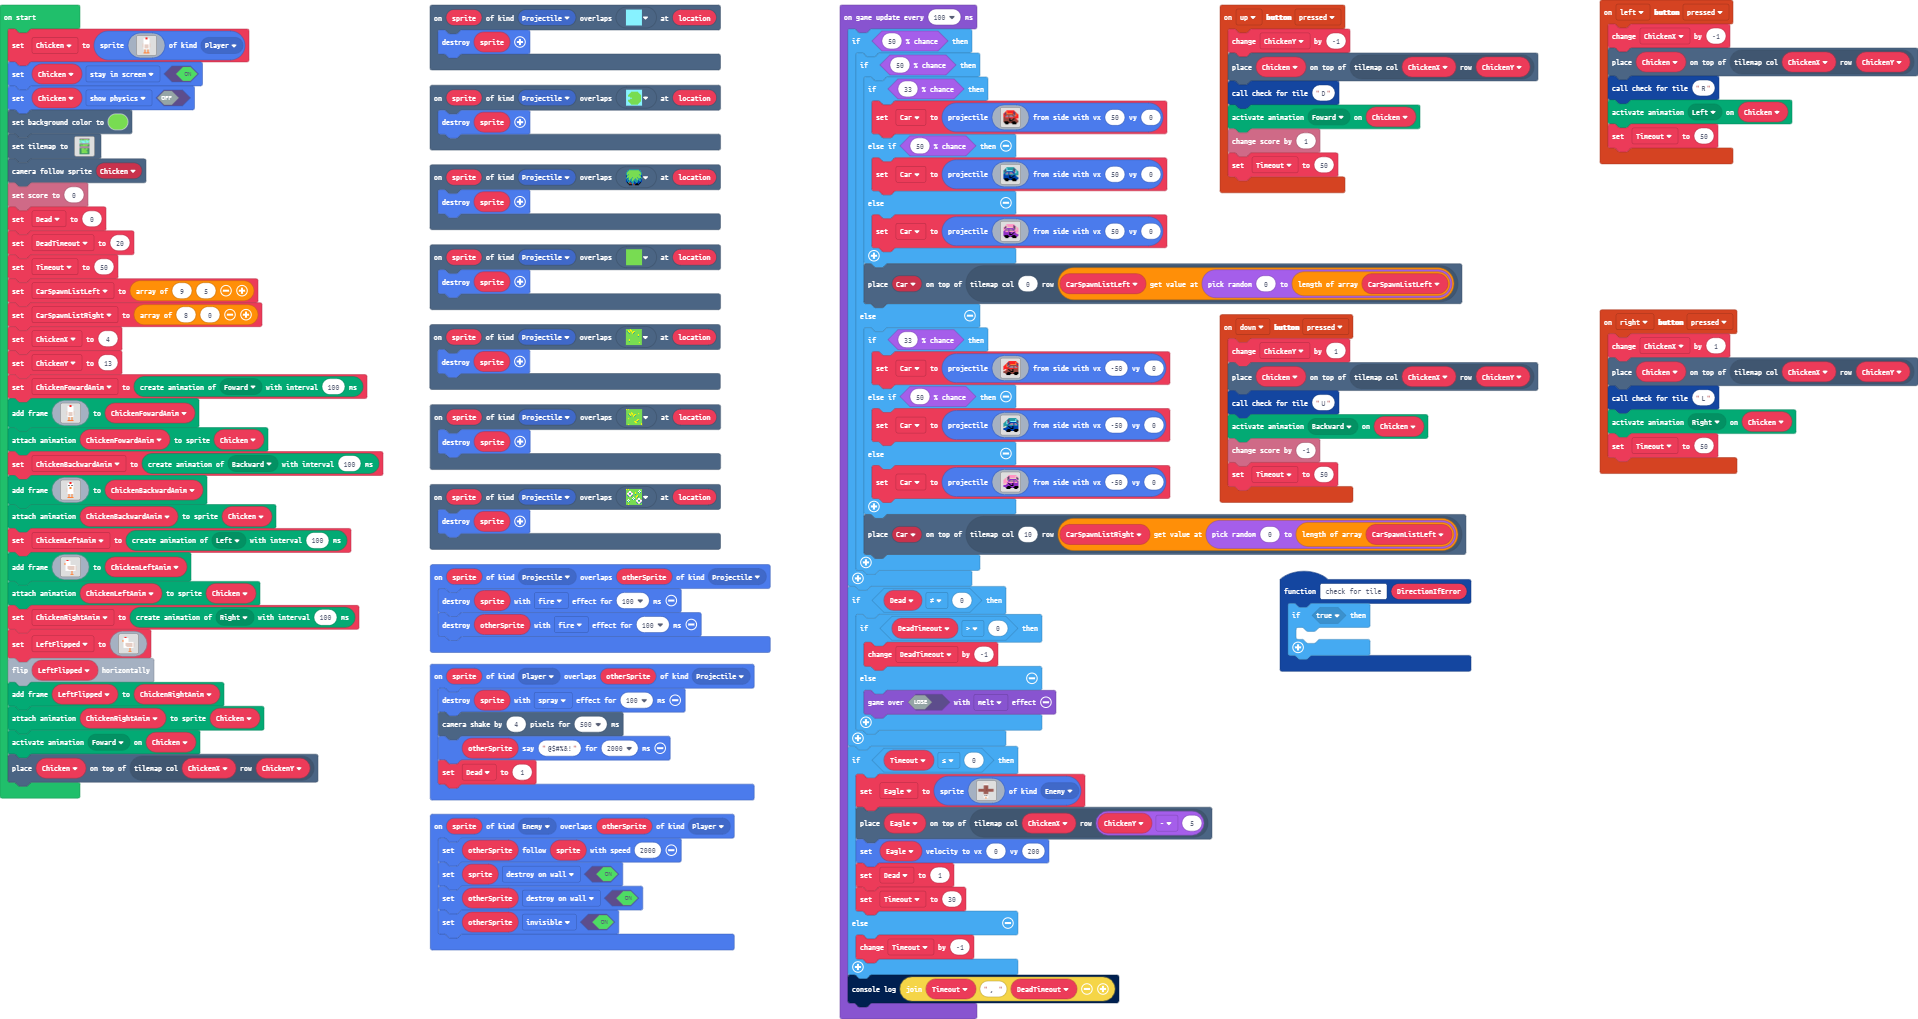
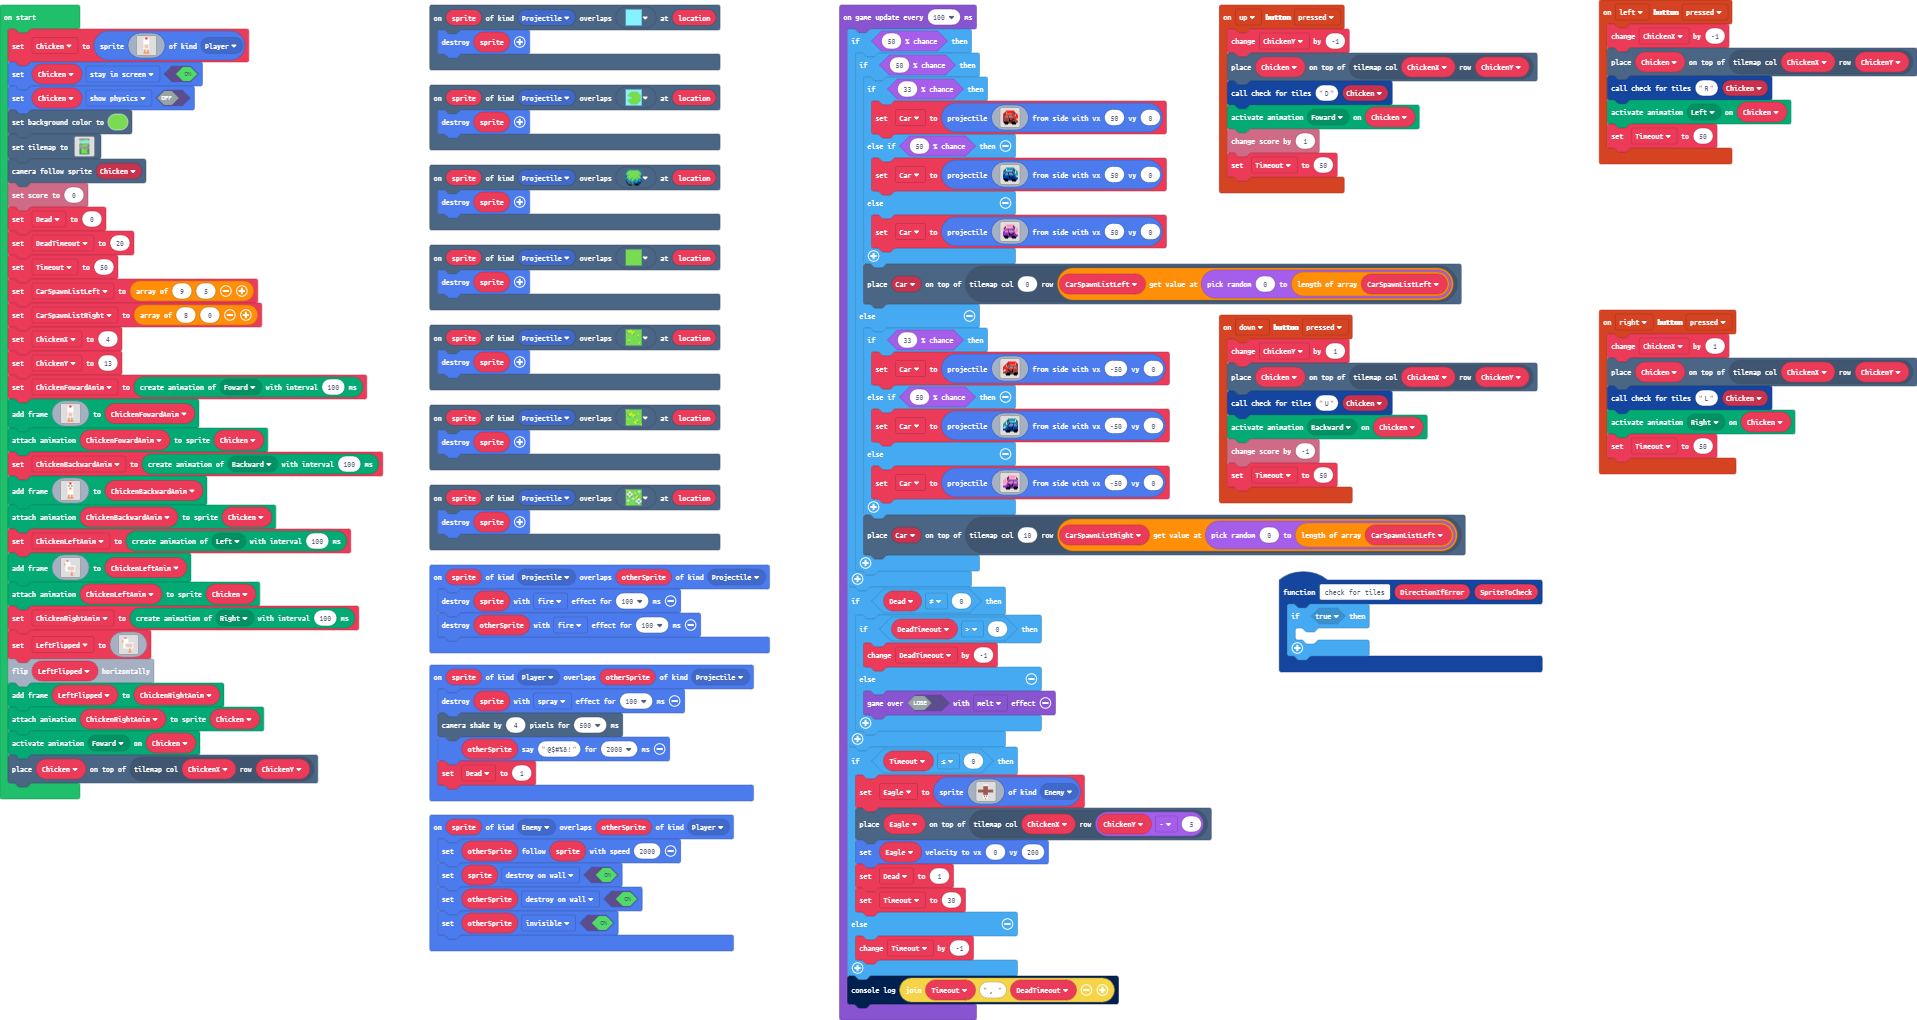
Update main.blocks, main.ts

diff --git a/main.ts b/main.ts
@@ -91,23 +91,18 @@ scene.onOverlapTile(SpriteKind.Projectile, sprites.castle.tileGrass1, function (
 controller.left.onEvent(ControllerButtonEvent.Pressed, function () {
     ChickenX += -1
     tiles.placeOnTile(Chicken, tiles.getTileLocation(ChickenX, ChickenY))
-    check_for_tile("R")
+    check_for_tiles("R", Chicken)
     animation.setAction(Chicken, ActionKind.Left)
     Timeout = 50
 })
 controller.down.onEvent(ControllerButtonEvent.Pressed, function () {
     ChickenY += 1
     tiles.placeOnTile(Chicken, tiles.getTileLocation(ChickenX, ChickenY))
-    check_for_tile("U")
+    check_for_tiles("U", Chicken)
     animation.setAction(Chicken, ActionKind.Backward)
     info.changeScoreBy(-1)
     Timeout = 50
 })
-function check_for_tile (DirectionIfError: string) {
-    if (true) {
-    	
-    }
-}
 sprites.onOverlap(SpriteKind.Enemy, SpriteKind.Player, function (sprite, otherSprite) {
     otherSprite.follow(sprite, 2000)
     sprite.setFlag(SpriteFlag.DestroyOnWall, true)
@@ -130,10 +125,15 @@ sprites.onOverlap(SpriteKind.Projectile, SpriteKind.Projectile, function (sprite
     sprite.destroy(effects.fire, 100)
     otherSprite.destroy(effects.fire, 100)
 })
+function check_for_tiles (DirectionIfError: string, SpriteToCheck: Sprite) {
+    if (true) {
+    	
+    }
+}
 controller.right.onEvent(ControllerButtonEvent.Pressed, function () {
     ChickenX += 1
     tiles.placeOnTile(Chicken, tiles.getTileLocation(ChickenX, ChickenY))
-    check_for_tile("L")
+    check_for_tiles("L", Chicken)
     animation.setAction(Chicken, ActionKind.Right)
     Timeout = 50
 })
@@ -146,7 +146,7 @@ scene.onOverlapTile(SpriteKind.Projectile, sprites.builtin.forestTiles0, functio
 controller.up.onEvent(ControllerButtonEvent.Pressed, function () {
     ChickenY += -1
     tiles.placeOnTile(Chicken, tiles.getTileLocation(ChickenX, ChickenY))
-    check_for_tile("D")
+    check_for_tiles("D", Chicken)
     animation.setAction(Chicken, ActionKind.Foward)
     info.changeScoreBy(1)
     Timeout = 50
